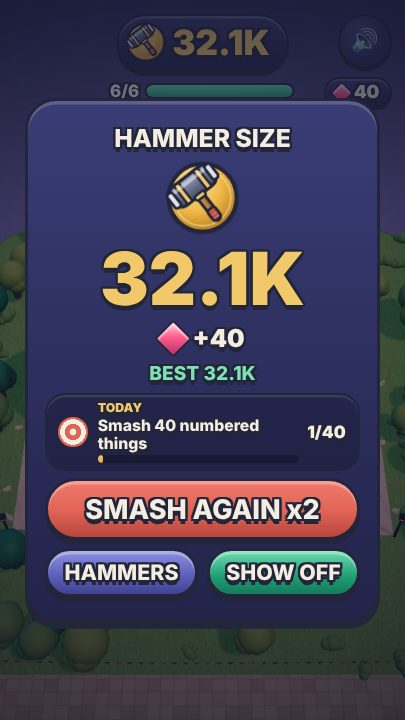
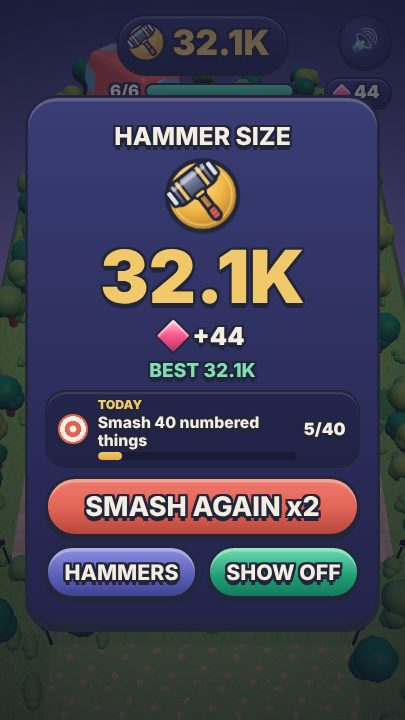
fix: +1 Mega Hammer follows the latest Astrocade game guide (#193)
- run() registers the settings panel (lib.showGameParameters, 12 sliders) in
  both modes; edit mode writes changes back to window.gameConfig
- haptics use platform presets (thud, tap, tick) so hits vibrate
- results-card secondary buttons are 96 px tall (touch minimum)
- Baloo fonts load from the asset map (6 woff2 platform assets) instead
  of jsDelivr
- README.upload.md ships as the required README.md
- playtest checks the panel registration and haptic preset names

Task: Astrocade guide compliance audit

Claude-Session: https://claude.ai/code/session_01S4KwR4MUGpQRPEYjqc1U2Q

diff --git a/prototypes/plus-one-mega-hammer/game.js b/prototypes/plus-one-mega-hammer/game.js
@@ -120,6 +120,42 @@ const Sound = (() => {
 const buzz = (kind) => { try { lib.haptics.play(kind); } catch (e) { /* no vibration on web */ } };
 const fmt = (n) => (n >= 1e6 ? (n / 1e6).toFixed(1) + 'M' : n >= 1e4 ? (n / 1e3).toFixed(1) + 'K' : String(Math.floor(n)));
 
+/** Settings-panel entries: [label, config path, min, max, step]. */
+const PARAMS = [
+  ['Swing time', 'hammer.swing', 0.04, 0.3, 0.01], ['Recover time', 'hammer.recover', 0.08, 0.6, 0.01],
+  ['Hammer reach', 'hammer.hitR', 0.2, 1, 0.02], ['Combo bonus', 'growth.combo', 1, 2, 0.05],
+  ['Respawn time', 'growth.respawn', 0.5, 8, 0.5], ['Screen shake', 'fx.shake', 0, 0.6, 0.02],
+  ['Hit pause', 'fx.hitstop', 0, 0.15, 0.01], ['Music volume', 'music.volume', 0, 1, 0.02],
+  ['Rebirth multiplier', 'rebirth.mult', 1.5, 5, 0.5], ['Daily reward', 'daily.reward', 0, 500, 10],
+  ['Cutscenes per run', 'cine.maxPerRun', 0, 30, 1], ['Music duck in cutscenes', 'cine.duck', 0, 1, 0.05],
+];
+const setPath = (o, path, v) => { const k = path.split('.'); const last = k.pop(); for (const p of k) o = o[p] = o[p] || {}; o[last] = v; };
+/** Registers the settings panel (once per run, both modes). A change applies to this run; edit mode also writes it to window.gameConfig. */
+function showParams(cfg, mode) {
+  const params = {};
+  for (const [label, key, min, max, step] of PARAMS) params[label] = { key, type: 'slider', min, max, step,
+    onChange(v) { setPath(cfg, key, Number(v)); if (mode === 'edit' && window.gameConfig) setPath(window.gameConfig, key, Number(v)); } };
+  try { lib.showGameParameters({ name: '+1 Mega Hammer', params }); } catch (e) { /* no settings panel outside the host */ }
+}
+/** Game font faces from the asset map: [asset id, family, unicode range]. The browser fetches a file only when its script is on screen. */
+const FONTS = [
+  ['font_baloo2_latin', 'Baloo 2', 'U+0000-00FF,U+0131,U+0152-0153,U+02BB-02BC,U+02C6,U+02DA,U+02DC,U+0304,U+0308,U+0329,U+2000-206F,U+2074,U+20AC,U+2122,U+2191,U+2193,U+2212,U+2215,U+FEFF,U+FFFD'],
+  ['font_baloo2_latin_ext', 'Baloo 2', 'U+0100-02AF,U+0304,U+0308,U+0329,U+1E00-1E9F,U+1EF2-1EFF,U+2020,U+20A0-20AB,U+20AD-20C0,U+2113,U+2C60-2C7F,U+A720-A7FF'],
+  ['font_baloo2_vietnamese', 'Baloo 2', 'U+0102-0103,U+0110-0111,U+0128-0129,U+0168-0169,U+01A0-01A1,U+01AF-01B0,U+0300-0301,U+0303-0304,U+0308-0309,U+0323,U+0329,U+1EA0-1EF9,U+20AB'],
+  ['font_baloo2_devanagari', 'Baloo 2', 'U+0900-097F,U+1CD0-1CF9,U+200C-200D,U+20A8,U+20B9,U+20F0,U+25CC,U+A830-A839,U+A8E0-A8FF,U+11B00-11B09'],
+  ['font_baloo_da2_bengali', 'Baloo Da 2', 'U+0951-0952,U+0964-0965,U+0980-09FE,U+1CD0,U+1CD2,U+1CD5-1CD6,U+1CD8,U+1CE1,U+1CEA,U+1CED,U+1CF2,U+1CF5-1CF7,U+200C-200D,U+20B9,U+25CC,U+A8F1'],
+  ['font_baloo_bhaijaan2_arabic', 'Baloo Bhaijaan 2', 'U+0600-06FF,U+0750-077F,U+0870-088E,U+0890-0891,U+0898-08E1,U+08E3-08FF,U+200C-200E,U+2010-2011,U+204F,U+2E41,U+FB50-FDFF,U+FE70-FE74,U+FE76-FEFC'],
+];
+let fontsAdded = false;
+/** Adds the game fonts once; with no asset (local run) the CSS falls back to system fonts. */
+function loadFonts() {
+  if (fontsAdded || typeof FontFace === 'undefined' || !document.fonts) return; fontsAdded = true;
+  for (const [id, family, unicodeRange] of FONTS) {
+    let a = null; try { a = lib.getAsset(id); } catch (e) { /* no asset map */ }
+    if (a && a.url) try { document.fonts.add(new FontFace(family, `url(${a.url}) format('woff2')`, { weight: '800', display: 'swap', unicodeRange })); } catch (e) { /* bad face: fallback font */ }
+  }
+}
+
 /** Starts the game in mode 'play' or 'edit' (edit: live picture, no input, no saving). Returns { destroy, debug }. */
 export function run(mode = 'play') {
   if (window.__mh) { try { window.__mh.destroy(); } catch (e) { console.warn('previous run', e); } }
@@ -132,6 +168,8 @@ export function run(mode = 'play') {
     return wait;
   }
   const cfg = JSON.parse(JSON.stringify(window.gameConfig || {}));
+  showParams(cfg, mode);
+  loadFonts();
   const qs = new URLSearchParams(location.search);
   const root = document.getElementById('app');
   root.innerHTML = HTML;
@@ -252,8 +290,8 @@ export function run(mode = 'play') {
   /** A tap on a collection card: equip an owned hammer, buy an affordable one, or shake when gems are short. */
   function pick(id) {
     const k = SK[id]; if (!k) return;
-    if (save.owned.includes(id)) { if (save.skin !== id) { save.skin = id; wear(); persist(); Sound.ding(5); buzz('light'); } renderColl(); return; }
-    if (save.gems < k.cost) { const b = $('grid').querySelector(`[data-id="${id}"]`); if (b) { b.classList.remove('no'); void b.offsetWidth; b.classList.add('no'); } Sound.bonk(); buzz('light'); return; }
+    if (save.owned.includes(id)) { if (save.skin !== id) { save.skin = id; wear(); persist(); Sound.ding(5); buzz('tick'); } renderColl(); return; }
+    if (save.gems < k.cost) { const b = $('grid').querySelector(`[data-id="${id}"]`); if (b) { b.classList.remove('no'); void b.offsetWidth; b.classList.add('no'); } Sound.bonk(); buzz('tick'); return; }
     save.gems -= k.cost; save.owned.push(id); save.skin = id; wear(); persist(); renderColl();
     const b = $('grid').querySelector(`[data-id="${id}"]`); if (b) b.classList.add('got');
     Sound.evolve(); Sound.fanfare(); buzz('success'); showBanner(T('unlocked'), 'gold');
@@ -309,12 +347,12 @@ export function run(mode = 'play') {
         if (o.req > 1) { bigHit = true; scene.gems(o.x, o.z, o.boss ? cfg.gems.vault : Math.min(cfg.gems.max, 1 + Math.floor(Math.log10(o.req))), cfg.kinds[o.kind].r * 1.4); }
         popNumber(o.x, cfg.kinds[o.kind].r * 2, o.z, e.gain, o.req > 1);
       } else if (e.type === 'bonk') { scene.bonk(e.id); Sound.bonk(); }
-      else if (e.type === 'hit') { scene.hit(e.id, R.L); Sound.clang(e.hp); bigHit = true; buzz('heavy'); }
+      else if (e.type === 'hit') { scene.hit(e.id, R.L); Sound.clang(e.hp); bigHit = true; buzz('thud'); }
       else if (e.type === 'open') scene.open(e.id, R.L);
       else if (e.type === 'tier') {
         // the tier-up moment: slow motion, a camera punch-in, a golden ring three reaches wide, the hammer overshoots
         scene.hammer.setTier(e.tier); evolveFx = 1; slowT = cfg.fx.tierSlowMo; scene.punch(1); scene.ring(swing.x, swing.z, reach * cfg.fx.tierRing, 0.9);
-        Sound.evolve(); Sound.whoom(); showBanner(T('evolve'), 'gold'); buzz('heavy'); tierAt = { x: swing.x, z: swing.z }; if (touched && mode === 'play') { save.tier = Math.max(save.tier, e.tier); persist(); } }
+        Sound.evolve(); Sound.whoom(); showBanner(T('evolve'), 'gold'); buzz('thud'); tierAt = { x: swing.x, z: swing.z }; if (touched && mode === 'play') { save.tier = Math.max(save.tier, e.tier); persist(); } }
       else if (e.type === 'clear') {
         if (touched) persist(); const Z = cfg.zones[e.zone]; scene.confetti(0, Z.z); Sound.fanfare(); showBanner(T('clear'), 'jade');
         // the zone before the boss is done: the boss cutscene follows a moment later
@@ -329,7 +367,7 @@ export function run(mode = 'play') {
     squashT = 1; if (bigHit) { scene.kick(1); scene.scare(swing.x, swing.z, reach * cfg.fx.scare); }
     scene.shake(broke || bigHit ? (bigHit ? 0.75 : 0.45) : 0.25);
     hitstop = broke || bigHit ? (bigHit ? cfg.fx.hitstopBig : cfg.fx.hitstop) : 0;
-    if (broke) { Sound.ding(R.combo); Sound.grow(); growFx = 1; buzz(bigHit ? 'medium' : 'light'); showCombo(); daily('size', R.L, false); daily('combo', R.combo, false); }
+    if (broke) { Sound.ding(R.combo); Sound.grow(); growFx = 1; buzz(bigHit ? 'tap' : 'tick'); showCombo(); daily('size', R.L, false); daily('combo', R.combo, false); }
     // every label that is now within reach of the new size turns green
     for (const o of R.objects) if (o.alive && o.req > 1) scene.relabel(o.id, R.L);
     renderTop();
@@ -499,7 +537,7 @@ export function run(mode = 'play') {
     // reduce motion: the camera stays at play, only the bars and the titles show; a blended one eases in from play
     scene.cineCam.w = reduce || C.blend ? 0 : 1; cineOut = 0;
     Sound.duck(cfg.cine.duck, 0.25); if (id !== 'defeat') Sound.sting(id, d);
-    if (id === 'defeat') { slowT = C.slow; showBanner(T('boss_down'), 'gold', T('boss_' + o.kind)); Sound.bossDown(); buzz('heavy'); scene.confetti(o.x, o.z); scene.ring(o.x, o.z, cfg.kinds[o.kind].r * 6, 0.9); }
+    if (id === 'defeat') { slowT = C.slow; showBanner(T('boss_down'), 'gold', T('boss_' + o.kind)); Sound.bossDown(); buzz('thud'); scene.confetti(o.x, o.z); scene.ring(o.x, o.z, cfg.kinds[o.kind].r * 6, 0.9); }
     root.style.setProperty('--bars', String(cfg.cine.bars));
     root.classList.add('cine'); root.classList.toggle('intro', id === 'intro'); root.classList.toggle('endc', id === 'end'); scene.labels(!C.rel || C.k);
     if (id === 'end') { $('tally').firstChild.textContent = T('size'); $('tally').lastChild.textContent = '0'; tallyN = 0; }
@@ -520,12 +558,12 @@ export function run(mode = 'play') {
   function introLand(quiet) {
     const s = L.hammerScale(cfg, R.L);
     scene.impact(aim.x, aim.z, L.reach(cfg, R.L), true); scene.puff(aim.x, aim.z, 14, 0.9); scene.shake(0.6);
-    if (!quiet) { Sound.thud(s * 2.2); buzz('heavy'); }
+    if (!quiet) { Sound.thud(s * 2.2); buzz('thud'); }
   }
   /** The boss cutscene's beat: the boss wobbles awake with a growl and its name comes up. */
   function bossWake(c, quiet) {
     c.woke = true; scene.wake(c.o.id); showBanner(T('boss'), 'gold', T('boss_' + c.o.kind));
-    if (!quiet) { Sound.roar(); buzz('heavy'); }
+    if (!quiet) { Sound.roar(); buzz('thud'); }
   }
   function stepCine(dt) {
     if (introWait >= 0) {
@@ -698,8 +736,8 @@ window.run = run;
 if (typeof location !== 'undefined' && new URLSearchParams(location.search).has('local') && !window.lib) {
   const none = async () => ({});
   const store = { state: window.__preset || null };
-  window.lib = { showGameParameters() {}, log() {}, getUserGameState: async () => (window.__saveFails ? Promise.reject(new Error('offline')) : { state: store.state }),
+  window.lib = { showGameParameters(o) { (window.__params = window.__params || []).push(o); }, log() {}, getUserGameState: async () => (window.__saveFails ? Promise.reject(new Error('offline')) : { state: store.state }),
     saveUserGameState: async (s) => { store.state = s; (window.__writes = window.__writes || []).push(s); }, addPlayerScoreToLeaderboard: none, getTopNEntriesFromLeaderboard: none, share: async () => { window.__shares = (window.__shares || 0) + 1; },
-    shouldUseTouchControls: () => matchMedia('(pointer: coarse)').matches, haptics: { play() {}, start() {}, stop() {} }, getAsset: () => undefined };
+    shouldUseTouchControls: () => matchMedia('(pointer: coarse)').matches, haptics: { play(k) { (window.__haptics = window.__haptics || []).push(k); }, start() {}, stop() {} }, getAsset: () => undefined };
   fetch('./game_config.json').then((r) => r.json()).then((c) => { window.gameConfig = c; run(new URLSearchParams(location.search).get('mode') || 'play'); });
 }

diff --git a/prototypes/plus-one-mega-hammer/index.html b/prototypes/plus-one-mega-hammer/index.html
@@ -5,10 +5,7 @@
 <meta charset="utf-8">
 <meta name="viewport" content="width=device-width,initial-scale=1,user-scalable=no,viewport-fit=cover">
 <title>+1 Mega Hammer: Smash and Grow</title>
-<!-- the rounded Baloo family: one look in Latin/Vietnamese, Devanagari, Bengali and Arabic -->
-<link rel="stylesheet" data-font href="https://cdn.jsdelivr.net/npm/@fontsource/baloo-2@5.1.0/800.css">
-<link rel="stylesheet" data-font href="https://cdn.jsdelivr.net/npm/@fontsource/baloo-da-2@5.1.0/800.css">
-<link rel="stylesheet" data-font href="https://cdn.jsdelivr.net/npm/@fontsource/baloo-bhaijaan-2@5.1.0/800.css">
+<!-- the rounded Baloo family (Latin/Vietnamese, Devanagari, Bengali, Arabic) loads from the asset map in game.js loadFonts -->
 <style>
 html,body{margin:0;height:100%;background:#23263a;overflow:hidden;font-family:"Baloo 2","Baloo Da 2","Baloo Bhaijaan 2","Arial Rounded MT Bold","Nunito","Noto Sans",system-ui,sans-serif;font-weight:800}
 body{display:flex;align-items:center;justify-content:center}
@@ -119,11 +116,11 @@ body{display:flex;align-items:center;justify-content:center}
 .cbtn{width:100%;min-height:calc(var(--u)*110px);border-radius:999px;border:calc(var(--u)*6px) solid var(--ink);font:inherit;font-size:calc(var(--u)*48px);color:#f4ede2;cursor:pointer;-webkit-tap-highlight-color:transparent;
   background:linear-gradient(#f07a6c,#e06356 55%,#b8463b);box-shadow:inset 0 calc(var(--u)*6px) 0 rgba(255,255,255,.3),0 calc(var(--u)*8px) 0 var(--ink)}
 .cbtn:active{translate:0 calc(var(--u)*6px);box-shadow:inset 0 calc(var(--u)*6px) 0 rgba(255,255,255,.3),0 calc(var(--u)*2px) 0 var(--ink)}
-.cbtn.alt{min-height:calc(var(--u)*86px);font-size:calc(var(--u)*38px);background:linear-gradient(#6fdcb2,#1f9d74 60%,#167a5a)}
+.cbtn.alt{min-height:calc(var(--u)*96px);font-size:calc(var(--u)*38px);background:linear-gradient(#6fdcb2,#1f9d74 60%,#167a5a)}
 .cbtn[hidden]{display:none}
 .crow{display:flex;gap:calc(var(--u)*16px);width:100%}
 .crow .cbtn{flex:1;min-width:0;position:relative}
-.cbtn.alt2{min-height:calc(var(--u)*86px);font-size:calc(var(--u)*38px);background:linear-gradient(#8c8fe0,#5a5db8 60%,#40438f)}
+.cbtn.alt2{min-height:calc(var(--u)*96px);font-size:calc(var(--u)*38px);background:linear-gradient(#8c8fe0,#5a5db8 60%,#40438f)}
 /* hammer collection */
 .coll{position:absolute;inset:0;display:flex;align-items:center;justify-content:center;pointer-events:auto;background:rgba(20,21,40,.72);opacity:0;transition:opacity .25s}
 .coll.show{opacity:1}

diff --git a/prototypes/plus-one-mega-hammer/playtest.js b/prototypes/plus-one-mega-hammer/playtest.js
@@ -86,6 +86,8 @@ async function calm(page) {
   await tapWorld(first[0], 0.3, first[1]); await waitIdle();
   check(await g((id) => !__game.R.objects[id].alive && __game.R.L > 1, first[2]), 'first tap breaks the fruit under the finger and the hammer grows');
   check(await g(() => document.getElementById('hint').hidden), 'the tap hint goes away after the first touch');
+  check(await g(() => { const ps = window.__params || []; if (ps.length !== 1) return false; const v = Object.values(ps[0].params); return v.length > 0 && v.every((q) => typeof q.key.split('.').reduce((o, k) => o && o[k], __game.cfg) === 'number' && q.min <= q.max); }), 'run() registers the settings panel once, every slider on a number in the config');
+  check(await g(() => (window.__haptics || []).length > 0 && window.__haptics.every((k) => ['tick', 'tap', 'thud', 'success', 'warning', 'error'].includes(k))), 'every haptic is a platform preset (hits vibrate)');
 
   // a numbered object too big for the hammer bounces and stays
   const big = await g(() => { const o = __game.R.objects.filter((p) => p.zone === 0 && p.req > __game.R.L).sort((a, b) => b.req - a.req)[0]; return [o.x, o.z, o.id]; });

diff --git a/prototypes/plus-one-mega-hammer/README.upload.md b/prototypes/plus-one-mega-hammer/README.upload.md
@@ -1,0 +1,29 @@
+# +1 Mega Hammer: Smash and Grow
+
+Tap to slam a giant hammer. Every object it breaks adds to the hammer's size, so it grows on screen and can then
+break the bigger, numbered things it bounced off before. A run crosses six zones (fruit stand, market, street, park,
+city, and a boss finale), ends with a results card and a "Smash again" run at a higher multiplier, and moves to a new
+world each time. Gems from numbered objects unlock hammer skins; a daily goal pays bonus gems.
+
+## Controls
+
+- Touch: tap where to slam (snaps to the nearest object); hold to keep slamming.
+- Keyboard: Space slams at the best spot. The bottom-left button opens the hammer collection.
+
+## Modes
+
+- `play`: the full game. Progress (best size, gems, owned hammers, tier, worlds) saves through
+  `lib.saveUserGameState`; the best size goes to the leaderboard at the end of each run.
+- `edit`: a live picture of the world with no input and no saving. The settings panel (`lib.showGameParameters`)
+  edits feel values (swing, reach, shake, hit pause, rewards, cutscenes) and writes them to `window.gameConfig`.
+
+## Code structure
+
+- `index.html`: page, HUD and screen styles; loads Three.js from cdnjs and `game.js`.
+- `game.js`: entry point. `run(mode)`, the game loop, input, HUD, sound made in code plus the music asset,
+  cutscene director, settings panel, fonts from the asset map, haptics. Ends with `window.run = run`.
+- `logic.js`: pure rules: growth, hit checks, zone clears, best slam spot, daily goals.
+- `scene.js`: Three.js world: zones, objects, debris and effects, camera, glow pass, adaptive quality.
+- `models.js`: the hammer skins and every breakable object, built from shared geometry and materials.
+- `game_config.json`: all tuning values, 7-language strings, cutscene tracks, leaderboard declaration.
+- `asset_map.json`: the music loop and the Baloo font files (SIL Open Font License 1.1).
